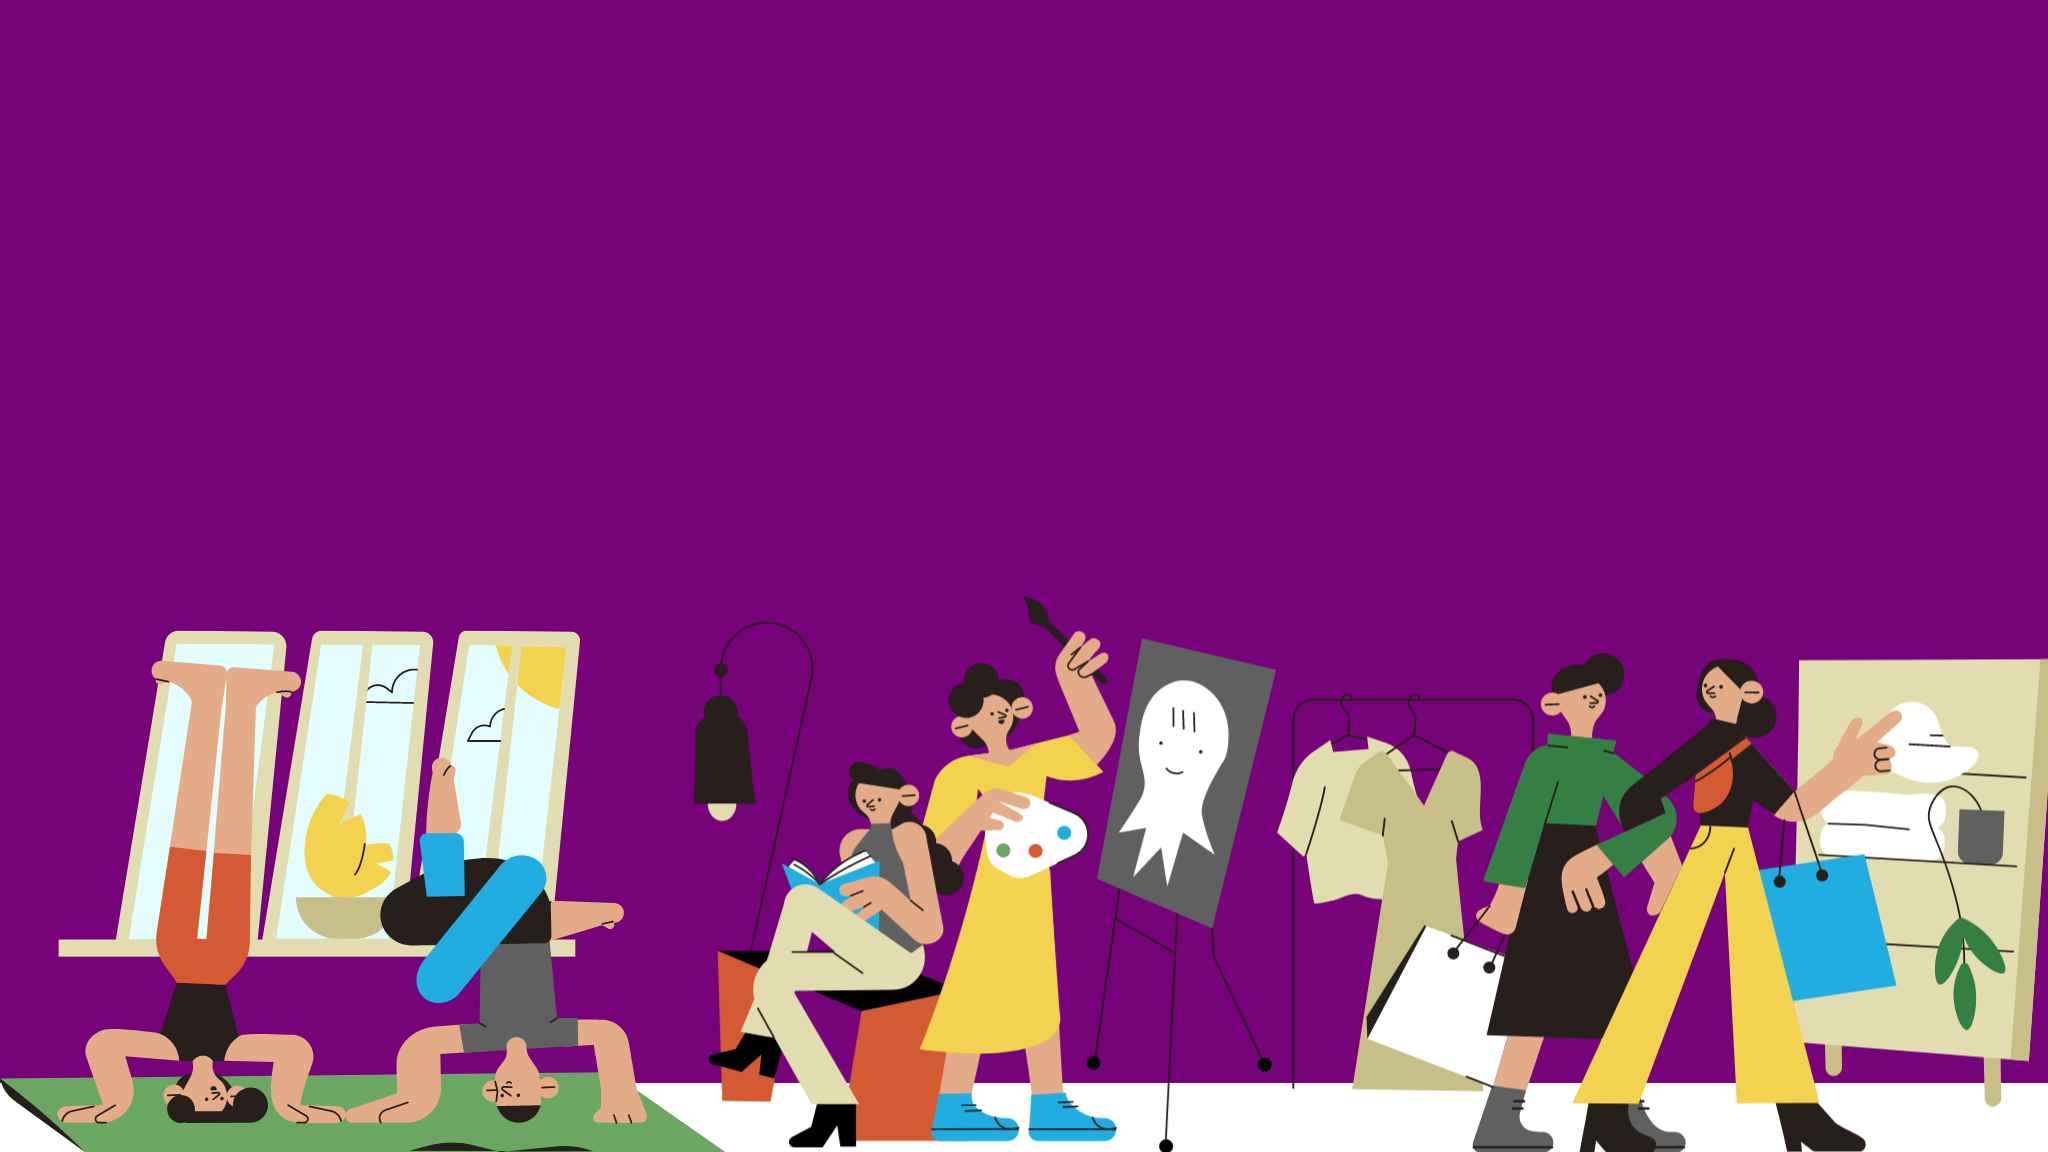
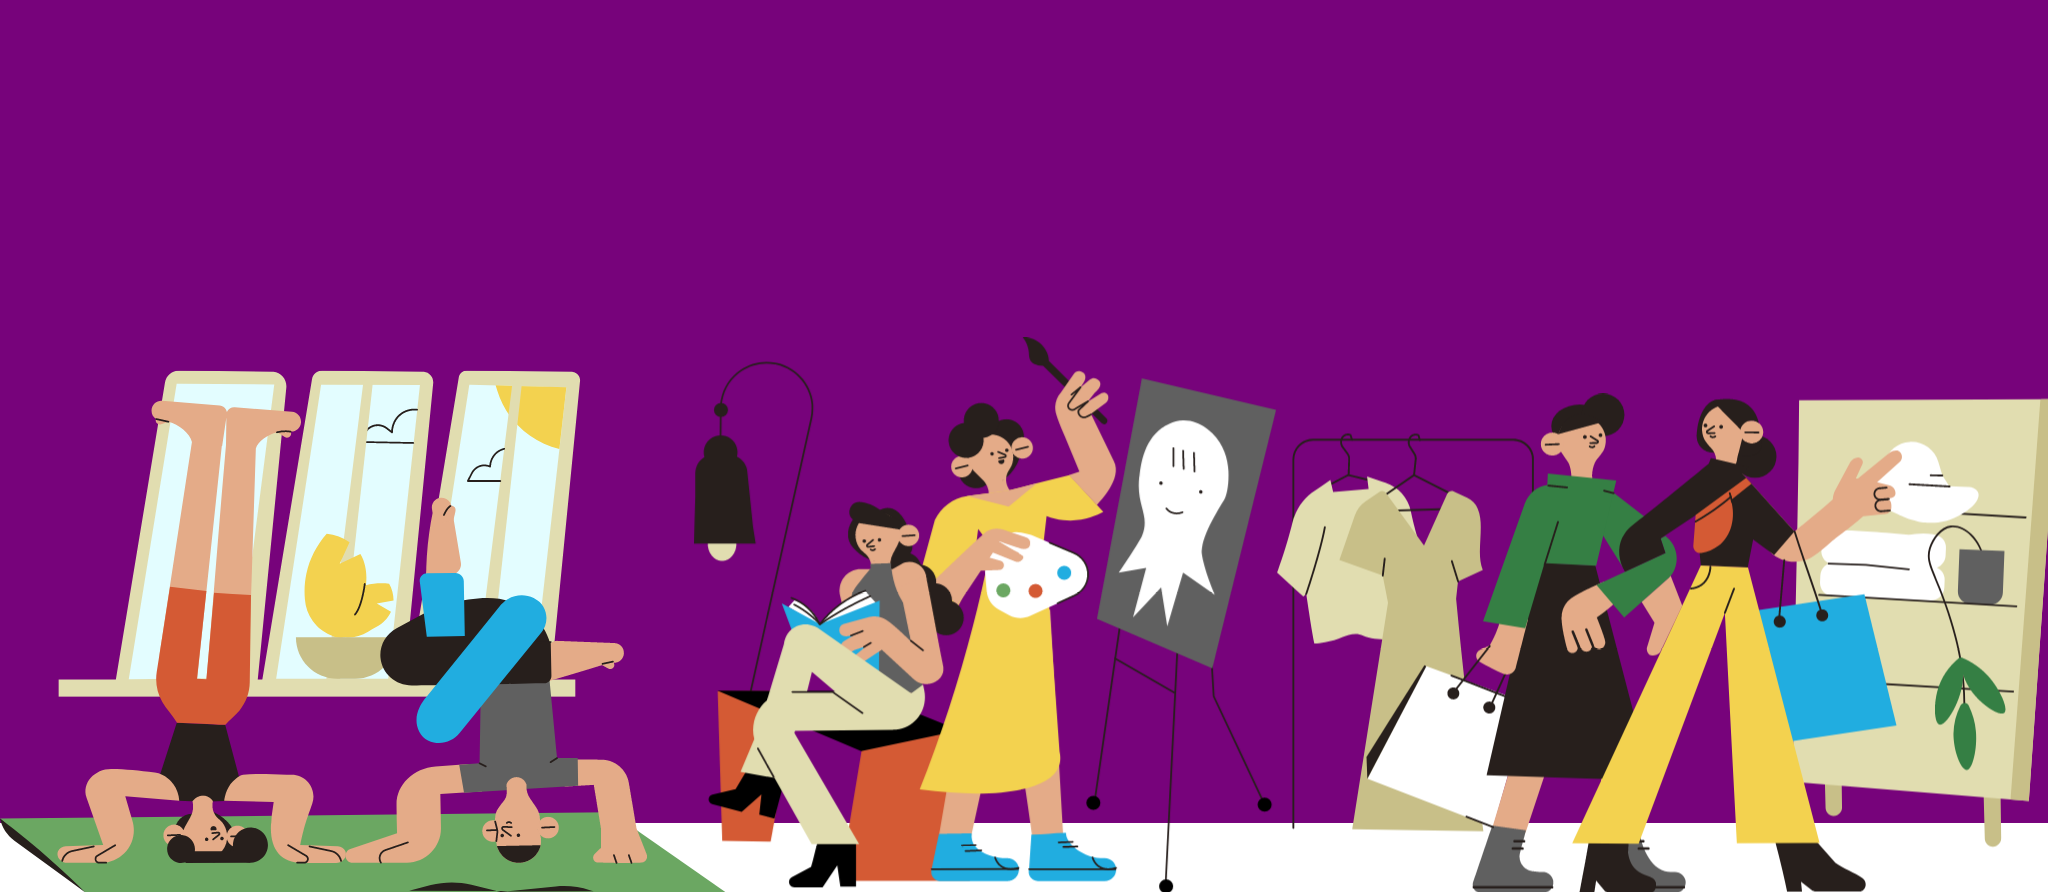
landing page with style (almost) ready

Changed region(s): [[0.0, 0.3632, 1.0, 1.0]]

diff --git a/app/assets/stylesheets/pages/_home.scss b/app/assets/stylesheets/pages/_home.scss
@@ -1,5 +1,70 @@
 // Specific CSS for your home-page
-.banner-img {
-  max-width: 100%;
+
+.home {
+  margin: 0 auto; 
+  width: 100%;
+}
+
+.banner {
+  background-size: contain;
+  background-position: center;
+  width: 100%;
   height: auto;
+  background-image: url('banner.png');
+  height: 70vh;
+}
+
+.banner h1 {
+  margin: 0;
+  color: white;
+  text-shadow: 1px 1px 3px rgba(0,0,0,0.2);
+  font-size: 32px;
+  font-weight: bold;
+}
+
+.banner-title {
+  position: absolute;
+  margin-top: 25px;
+  color: white;
+  font-size: calc(1.5rem + 1.5vw);
+  z-index: 1;
+}
+
+.body {
+  text-align: center;
+}
+
+.home + .footer {
+  display: none;
+}
+
+.btn {
+  display: inline-block;
+  padding: 10px 20px;
+  background-color: #210062;
+  color: white;
+  text-decoration: none;
+  border-radius: 5px;
+  text-align: center;
+}
+
+.btn:hover {
+  background-color: #F9E2AF;
+}
+
+.background-container {
+  background-color: #210062;
+  color: white;
+  padding: 20px;
+  margin-top: 50px;
+  margin-bottom: 50px;
+  text-align: center;
+}
+
+h1, h2 {
+  font-weight: bold;
+}
+
+.body-container {
+  text-align: center;
 }
